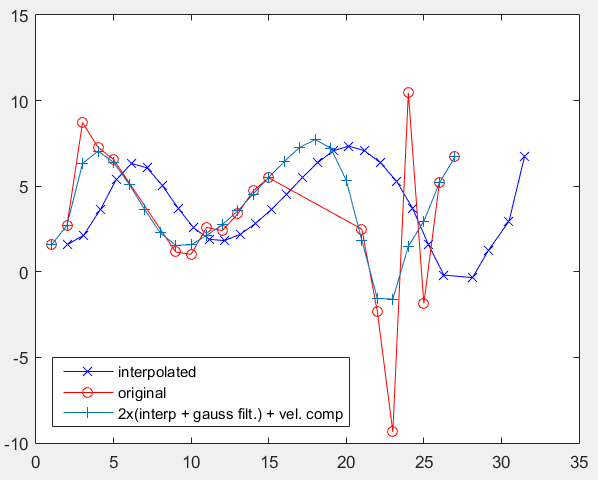
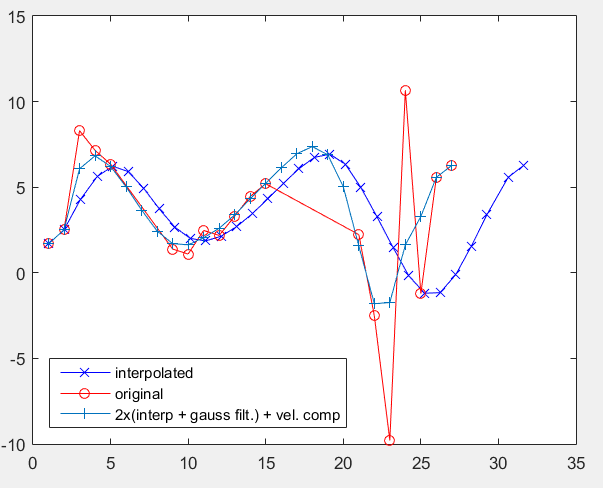
vel comp bug fix
vel comp bug fix

diff --git a/Matlab_demo_code/TrajectoryInterpolation.m b/Matlab_demo_code/TrajectoryInterpolation.m
@@ -150,6 +150,8 @@ for cycle = 1:2
     if cycle == 1
         yg1 = yg;
         xg1 = x;
+        xn = [xn, x(1)];
+        
         for i = 1:(size(x,2)-1)
             diff = x(i+1)-x(i);
             vel = abs( (y(i+1)-y(i)) / diff );
@@ -183,7 +185,8 @@ plot(xOrig, yOrig, '-or')
 hold on;
 plot(xg1, yg1, '-+')
 
-%legend('interpolated','original','interp + gauss filt.','Location','southwest')
+x
+legend('interpolated','original','2x(interp + gauss filt.) + vel. comp','Location','southwest')
 
  
     
